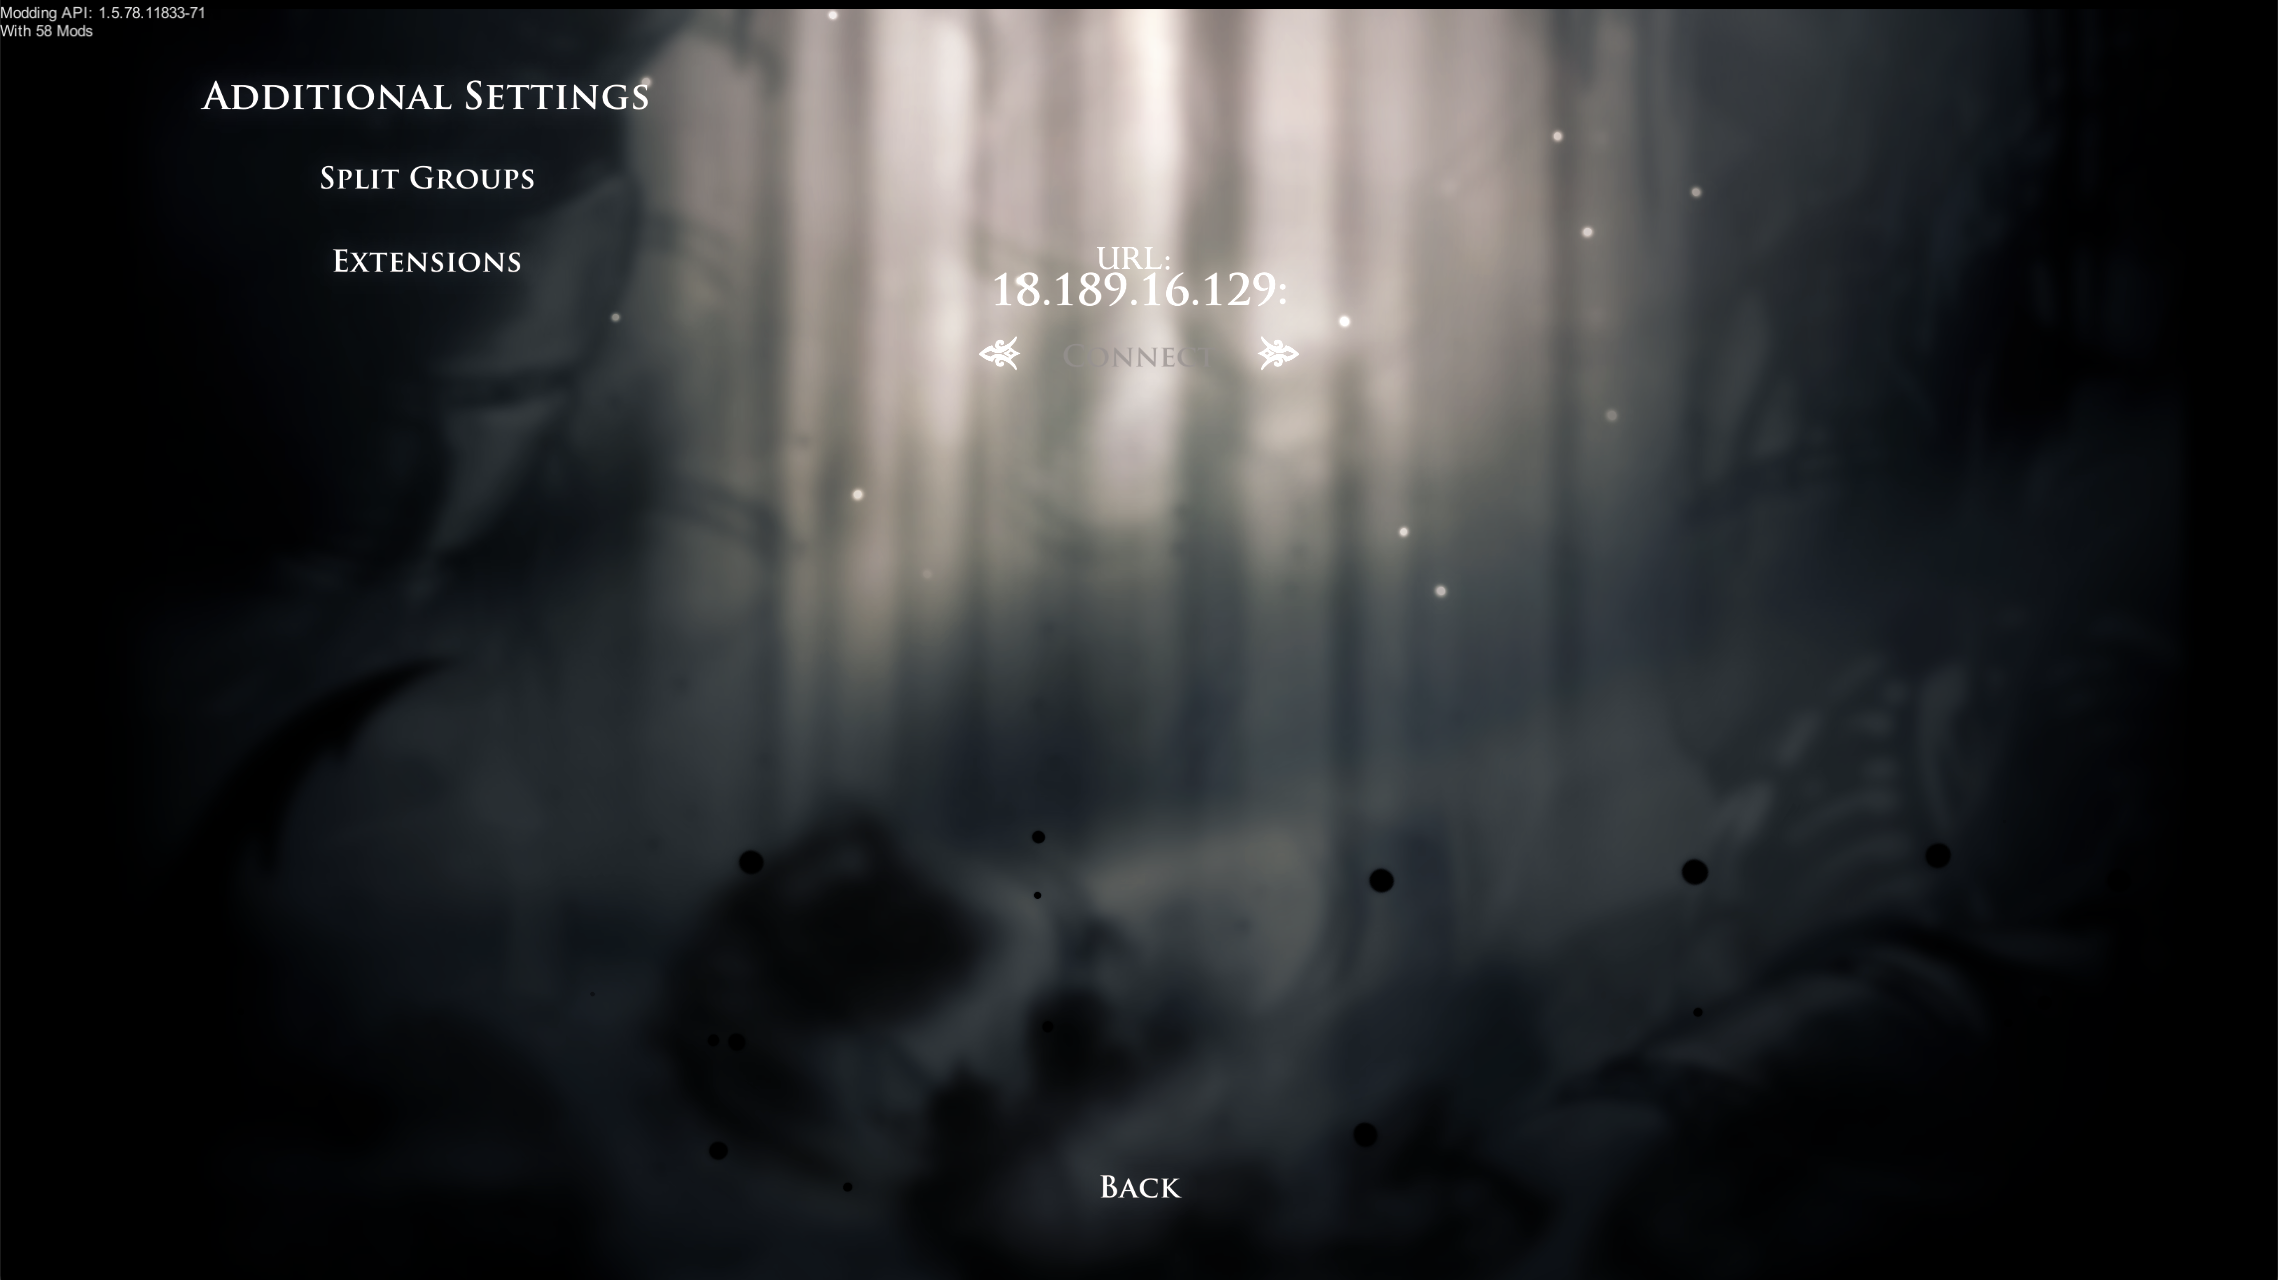
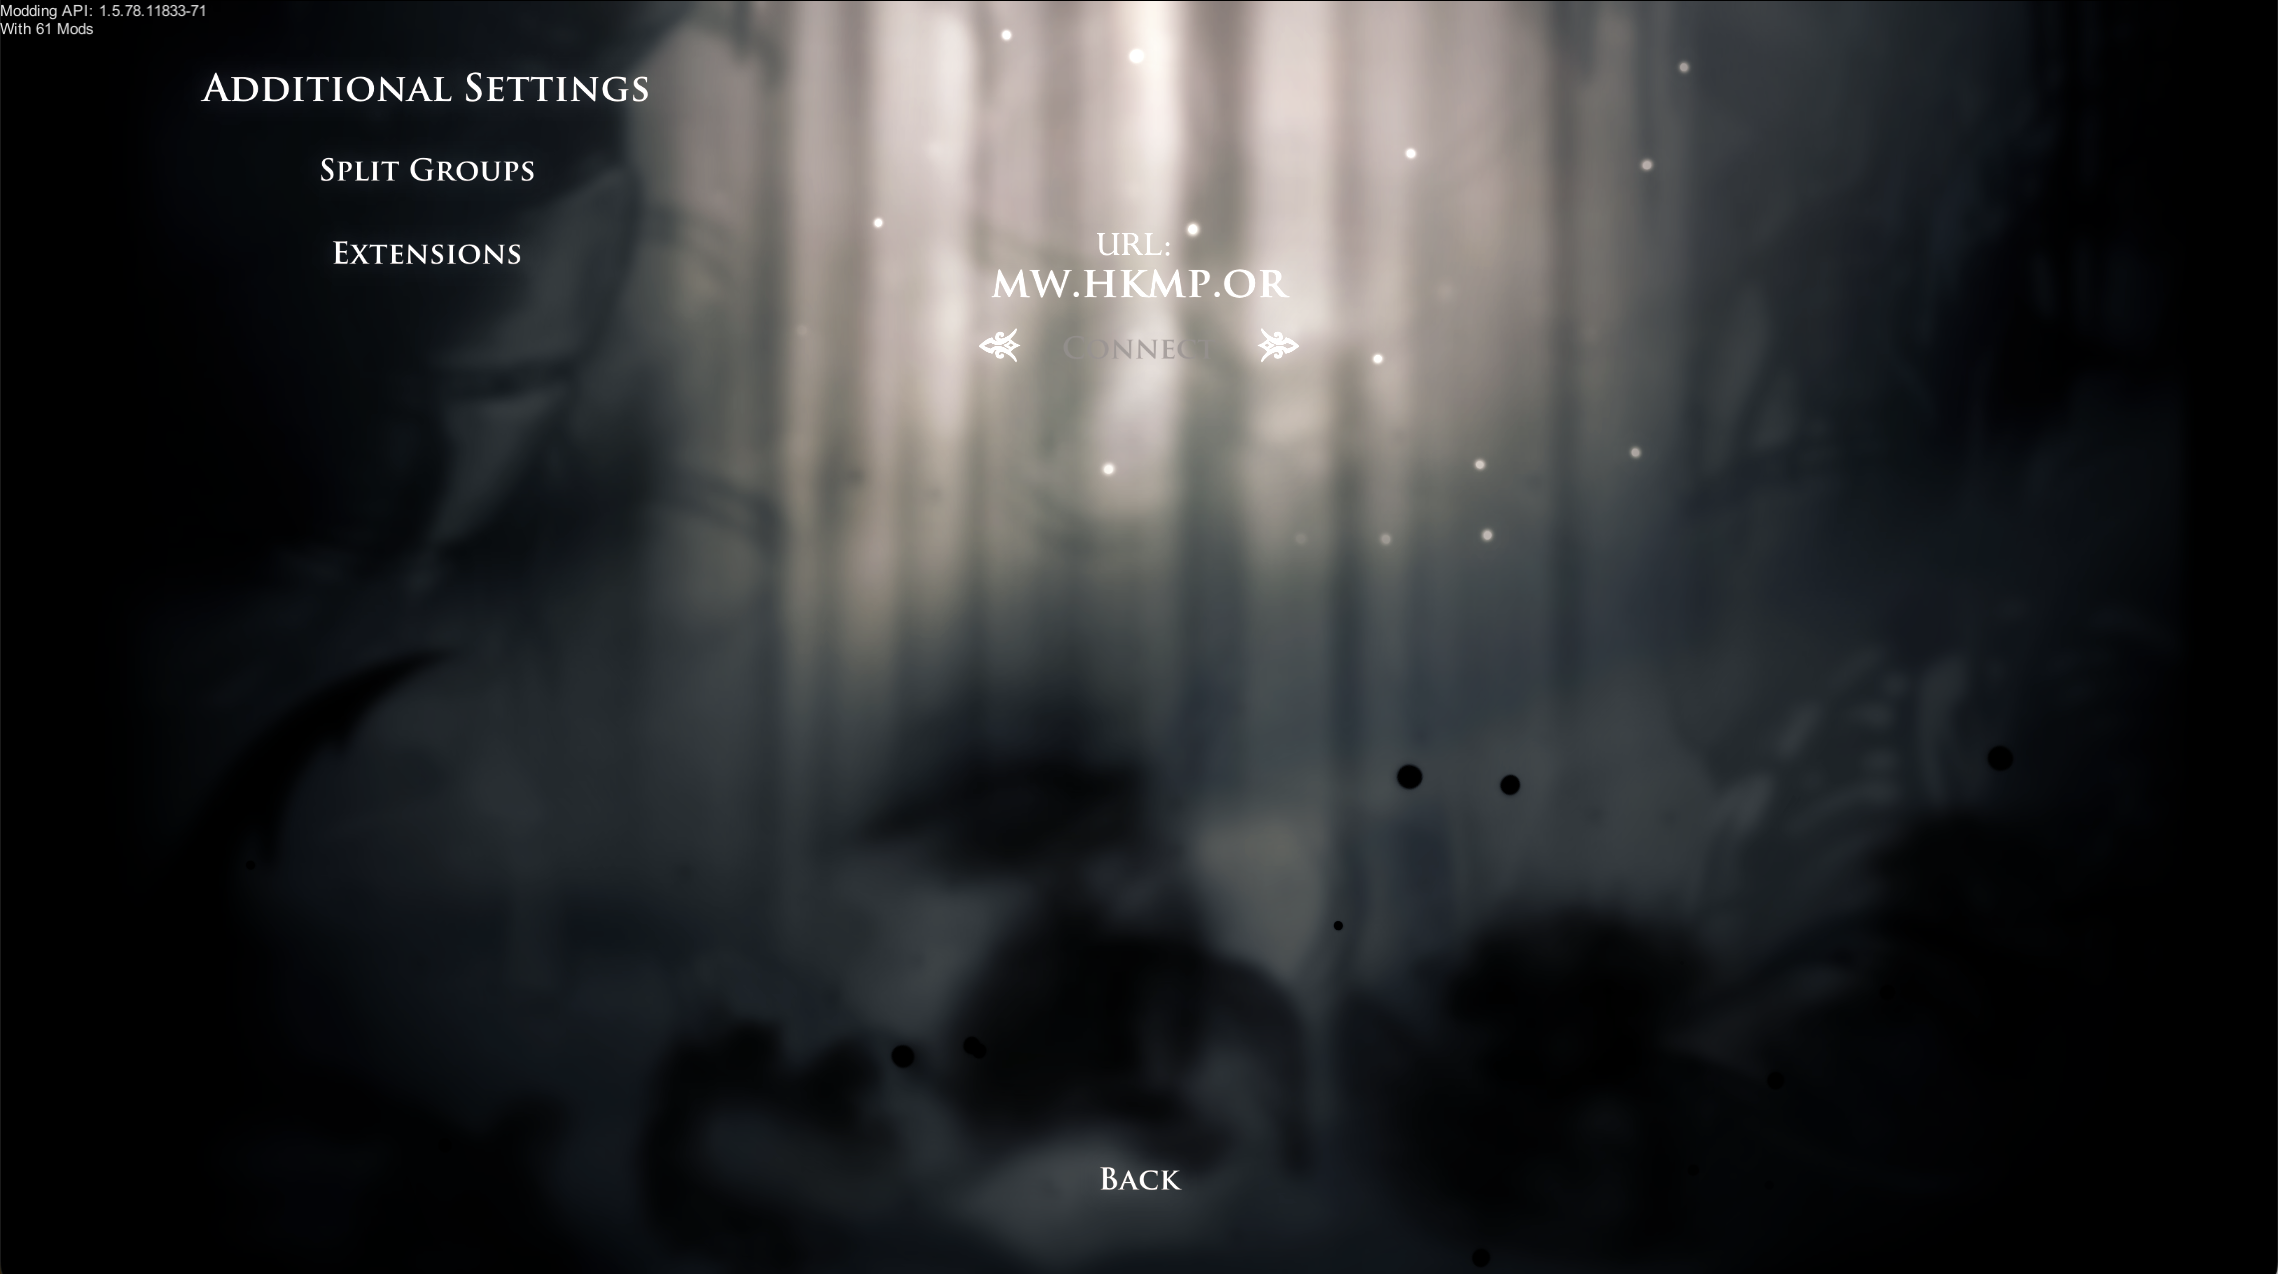
Update MultiWorld and ItemSync guides to account for new main server address
The MW/IS server run by Shadu recently had to change IP, so the old IPs
are no longer valid. Changing to mw.hkmp.org instead of the new IP so
that we don't have to do this again if the server's IP changes again.

diff --git a/rando/itemsyncguide.html b/rando/itemsyncguide.html
@@ -165,10 +165,10 @@
         <img src="/images/itemsyncguide/img5.png"
           alt="A screenshot of the Randomizer 4 randomization menu after clicking proceed. There are two options aligned to the top left of the screen: start rando normally and itemsync. Itemsync is highlighted.">
       </span>
-      <p>Input the url ‘18.189.16.129’ (should be default) and hit connect. <a class="menulink" onclick="return toggleMenu('menu10')">▶</a></p>
+      <p>Input the url ‘mw.hkmp.org’ (should be default) and hit connect. <a class="menulink" onclick="return toggleMenu('menu10')">▶</a></p>
       <span class="menu" id="menu10">
         <img src="/images/itemsyncguide/img4.png"
-          alt="A screenshot of the Randomizer 4 itemsync menu. In the center of the screen the URL 18.189.16.129 is in the input field, and there is a menu option directly below it that says connect, which is highlighted.">
+          alt="A screenshot of the Randomizer 4 itemsync menu. In the center of the screen the URL mw.hkmp.org is in the input field, and there is a menu option directly below it that says connect, which is highlighted.">
       </span>
       <p>Pick a nickname for yourself. <a class="menulink" onclick="return toggleMenu('menu11')">▶</a></p>
       <span class="menu" id="menu11">
@@ -236,10 +236,10 @@
         <img src="/images/itemsyncguide/img5.png"
           alt="A screenshot of the Randomizer 4 randomization menu after clicking proceed. There are two options aligned to the top left of the screen: start rando normally and itemsync. Itemsync is highlighted.">
       </span>
-      <p>Input the url ‘18.189.16.129’ (should be default) and hit connect. <a class="menulink" onclick="return toggleMenu('menu23')">▶</a></p>
+      <p>Input the url ‘mw.hkmp.org’ (should be default) and hit connect. <a class="menulink" onclick="return toggleMenu('menu23')">▶</a></p>
       <span class="menu" id="menu23">
         <img src="/images/itemsyncguide/img4.png"
-          alt="A screenshot of the Randomizer 4 itemsync menu. In the center of the screen the URL 18.189.16.129 is in the input field, and there is a menu option directly below it that says connect, which is highlighted.">
+          alt="A screenshot of the Randomizer 4 itemsync menu. In the center of the screen the URL mw.hkmp.org is in the input field, and there is a menu option directly below it that says connect, which is highlighted.">
       </span>
       <p>Pick a nickname for yourself. <a class="menulink" onclick="return toggleMenu('menu24')">▶</a></p>
       <span class="menu" id="menu24">

diff --git a/rando/multiworldguide.html b/rando/multiworldguide.html
@@ -112,10 +112,10 @@
         <p>Select 'Proceed', then 'MultiWorld'. <a class="menulink" onclick="toggle('screenshot2')">▶</a></p>
         <img src="/images/multiworldguide/img1.png" class="menu" id="screenshot2"
           alt="A screenshot of the Randomizer 4 menu after clicking Proceed. There are five options starting from the top left of the screen; from the top left, Start Rando Normally, Open Log Folder, ItemSync, MultiWorld, and Start Selection. MultiWorld is highlighted.">
-        <p>Enter '18.189.16.129' in the URL field, and click Connect. <a class="menulink"
+        <p>Enter 'mw.hkmp.org' in the URL field, and click Connect. <a class="menulink"
             onclick="toggle('screenshot3')">▶</a></p>
         <img src="/images/multiworldguide/img2.png" class="menu" id="screenshot3"
-          alt="A screenshot of the Randomizer 4 multiworld menu. In the center of the screen there is a URL field with the value 18.189.16.129 entered, and a Connect button directly below it, which is highlighted.">
+          alt="A screenshot of the Randomizer 4 multiworld menu. In the center of the screen there is a URL field with the value mw.hkmp.org entered, and a Connect button directly below it, which is highlighted.">
         <p>Enter your nickname and a room name. The room name should be the same for every player participating in the
           same multiworld. Then, press 'Ready'. <a class="menulink" onclick="toggle('screenshot4')">▶</a></p>
         <img src="/images/multiworldguide/img3.png" class="menu" id="screenshot4"

diff --git a/rando.html b/rando.html
@@ -158,6 +158,7 @@
           <h2 class="h2-smaller">What's new?</h3>
           <div class="newstext">
             <p class="newsdate">January 2025</p>
+            <p>Updated the main ItemSync/MultiWorld server address.</p>
             <p>Major update to the <a href="/rando/rules">rules</a> page to include the results of the October 2024 vote.</p>
             <p class="newsdate">September 2024</p>
             <p>Added a <a href="/rando/multiworldguide">Multiworld setup guide</a>!</p>
